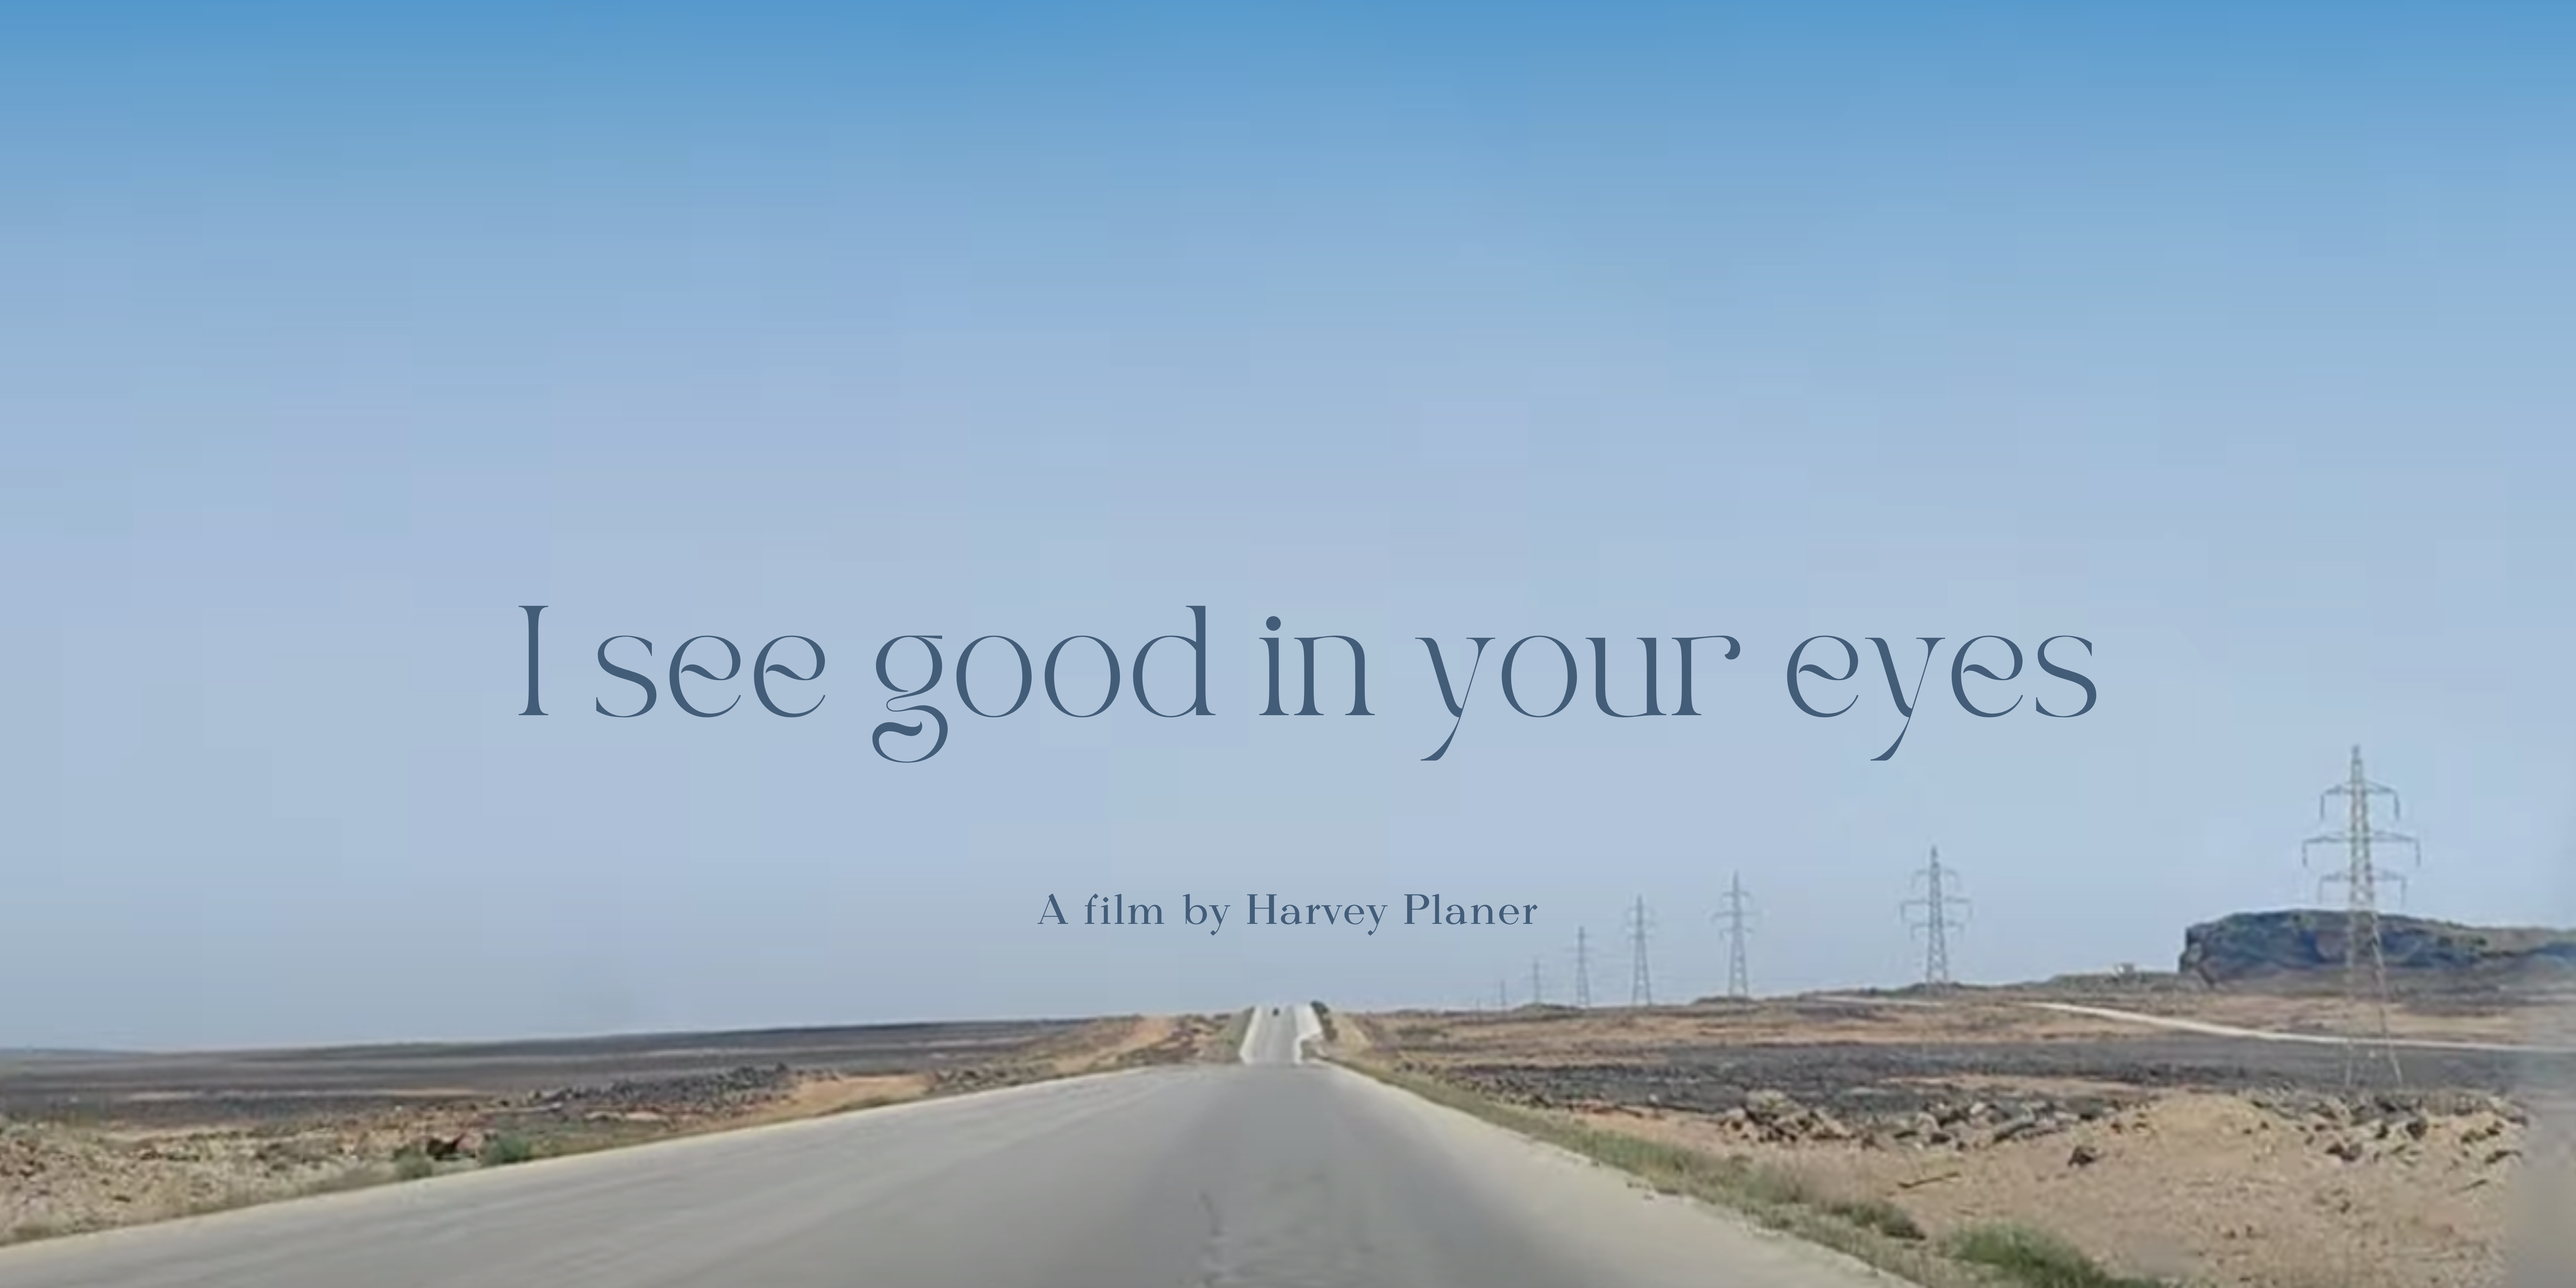
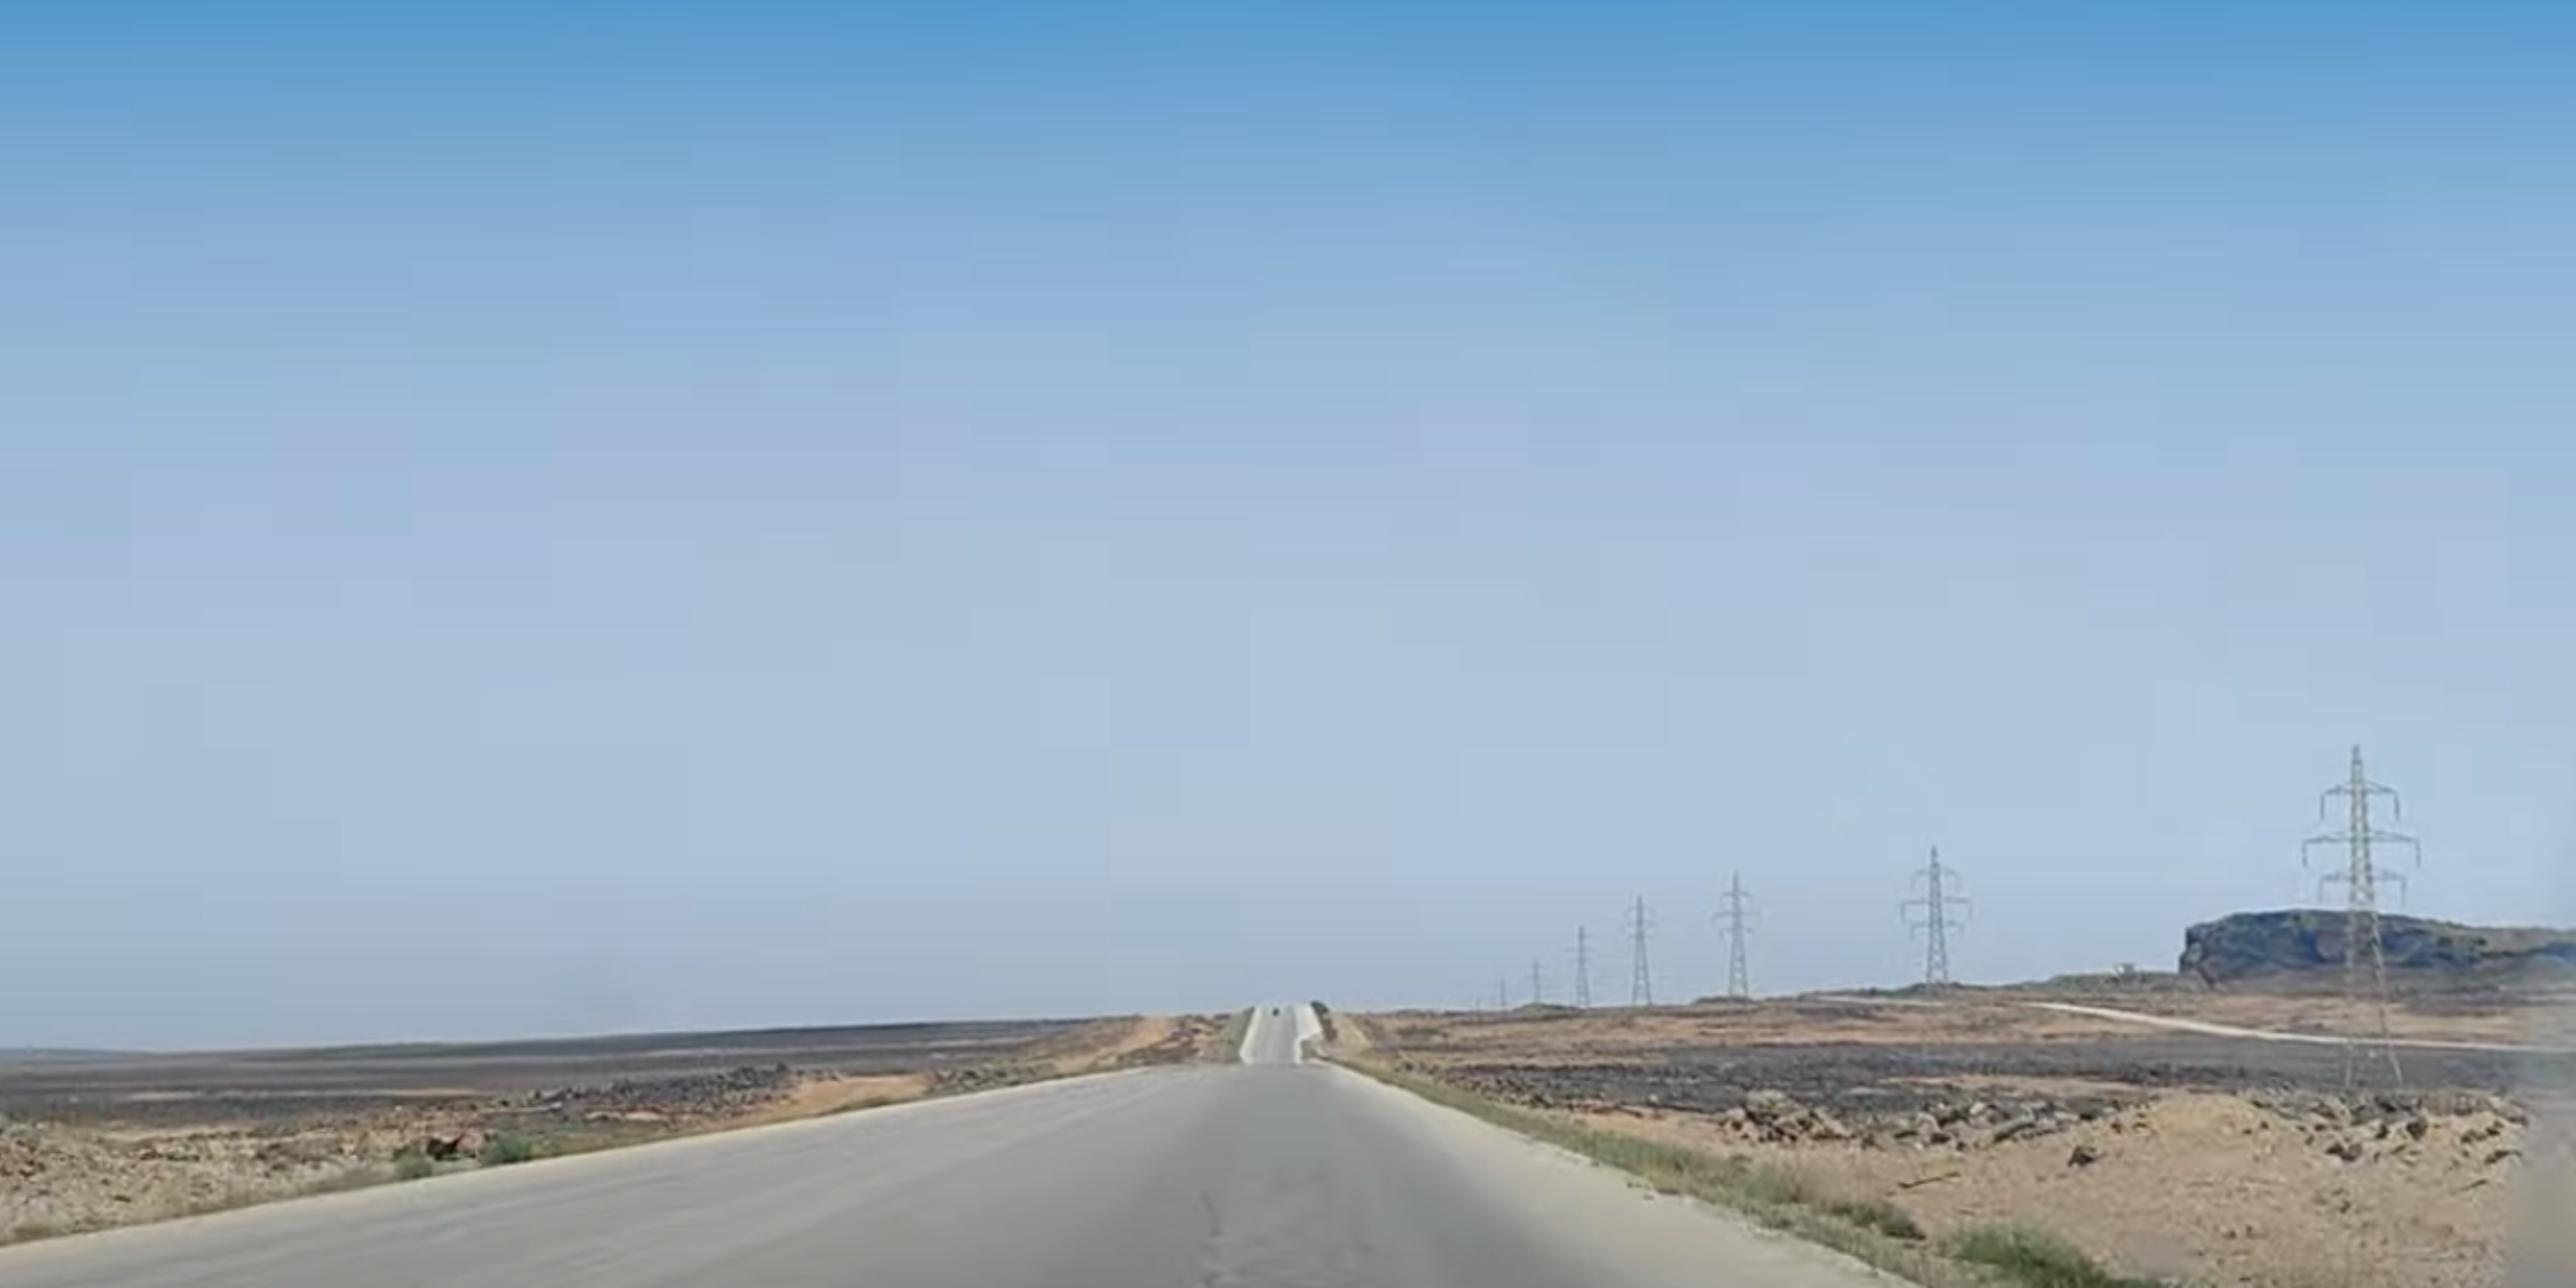
update: begin implementing backend

Changed region(s): [[0.1875, 0.4688, 0.6562, 0.5938], [0.6875, 0.5, 0.8125, 0.5625], [0.4062, 0.6875, 0.5938, 0.7188]]

diff --git a/src/app/components/Instagram.jsx b/src/app/components/Instagram.jsx
@@ -1,7 +1,24 @@
 import Image from "next/image"
 
 
-export default function Instagram() {
+const getMainPost = async (postType) => {
+    // const response = await fetch("/api/instagram?" + new URLSearchParams({
+    //     "postType": postType,
+    // }))
+
+    // const data = response.json()
+
+    const response = await fetch("/api")
+    const data = await response.json()
+
+    console.log(data)
+}
+
+
+export default async function Instagram() {
+
+    const mainPostHref = await getMainPost("main");
+
 
     const instaList = [];
 
@@ -33,7 +50,7 @@ export default function Instagram() {
                         Lorem, ipsum dolor sit amet consectetur adipisicing elit. Nemo, cum nesciunt, nam iste at quasi commodi, earum eum corporis voluptatum nobis sed rerum neque doloremque.
                     </div>
                 </a>
-                <div className="my-3 grid grid-cols-2 gap-3">
+                <div className="my-3 grid grid-cols-2 place-items-center gap-3">
                     {
                         instaList.map((crew, index) => (
                             <a href="https://www.instagram.com/goodinyoureyes_thefilm/" target="_blank" key={index}>
@@ -43,7 +60,6 @@ export default function Instagram() {
                                     height={200}
                                     width={200}
                                     alt={`Crew Image ${index + 1}`}
-
                                 />
                             </a>
                         ))

diff --git a/src/app/api/instagram/route.js b/src/app/api/instagram/route.js
@@ -1,0 +1,58 @@
+export const dynamic = 'force-dynamic' // defaults to auto
+
+const getMainPost = () => {
+    // TODO fetch newest post from instagram
+
+    return {
+        "status": "success",
+        "href": "/img/instagram1.jpeg"
+    }
+}
+
+const getRandomPost = () => {
+
+    return {
+        "status": "success",
+        "href": [
+            "/img/instagram1.jpeg",
+            "/img/instagram2.jpeg",
+            "/img/instagram3.jpeg",
+            "/img/instagram4.jpeg",
+        ]
+    }
+}
+
+
+export async function GET(request) {
+
+    const urlParams = request.nextUrl.searchParams
+    let responseStatus = 403;
+    let responseBody = {};
+
+
+    console.log(urlParams)
+    console.log(urlParams.get("main"))
+
+    // check for which type of post to return
+    if (urlParams.get("postType") == "main") {
+        responseStatus = 200;
+        responseBody = getMainPost();
+    } else if (urlParams.get("postType") == "random") {
+        responseStatus = 200;
+        responseBody = getRandomPost();
+    } else {
+        responseStatus = 403;
+        responseBody = {
+            "status": "failure",
+            "error": "Invalid Route"
+        }
+    }
+
+
+    return new Response(
+        JSON.stringify(responseBody),
+        {
+            status: responseStatus,
+        }
+    )
+}

diff --git a/src/app/components/Hero.jsx b/src/app/components/Hero.jsx
@@ -8,8 +8,13 @@ export default function Hero() {
     return (
         <div className="w-full h-screen bg-hero-img bg-cover bg-center">
             <div className="h-full flex justify-center items-center text-center">
-                <div className={`${tanFont.className} text-6xl`}>
-                    I see good in your eyes
+                <div>
+                    <h1 className={`${tanFont.className} text-6xl my-16`}>
+                        I see good in your eyes
+                    </h1>
+                    <h2 className={`${tanFont.className} text-xl`}>
+                        A film by Harvey Planer
+                    </h2>
                 </div>
             </div>
         </div>

diff --git a/src/app/components/Contact.jsx b/src/app/components/Contact.jsx
@@ -75,7 +75,7 @@ export default function Contact() {
                 <div>
                     <button
                         type="submit"
-                        className="bg-gray-800 hover:bg-indigo-900 focus:ring-4 focus:outline-none focus:ring-indigo-400 rounded-lg text-sm px-5 py-2 text-white text-center"
+                        className="bg-gray-800 hover:bg-indigo-900 focus:ring-4 focus:outline-none focus:ring-indigo-400 rounded-lg text-sm px-6 py-3 text-white text-center"
                     >
                         Submit
                     </button>

diff --git a/tailwind.config.js b/tailwind.config.js
@@ -17,7 +17,7 @@ module.exports = {
         "gradient-radial": "radial-gradient(var(--tw-gradient-stops))",
         "gradient-conic":
           "conic-gradient(from 180deg at 50% 50%, var(--tw-gradient-stops))",
-        "hero-img": "url('/img/hero_image.png')",
+        "hero-img": "url('/img/hero_image.webp')",
       },
     },
   },

diff --git a/src/app/api/route.js b/src/app/api/route.js
@@ -1,0 +1,14 @@
+
+
+export const dynamic = 'force-dynamic' // defaults to auto
+
+
+export async function GET(request) {
+
+    return new Response(
+        JSON.stringify({"hello": "world"}),
+        {
+            status: 200,
+        }
+    )
+}
